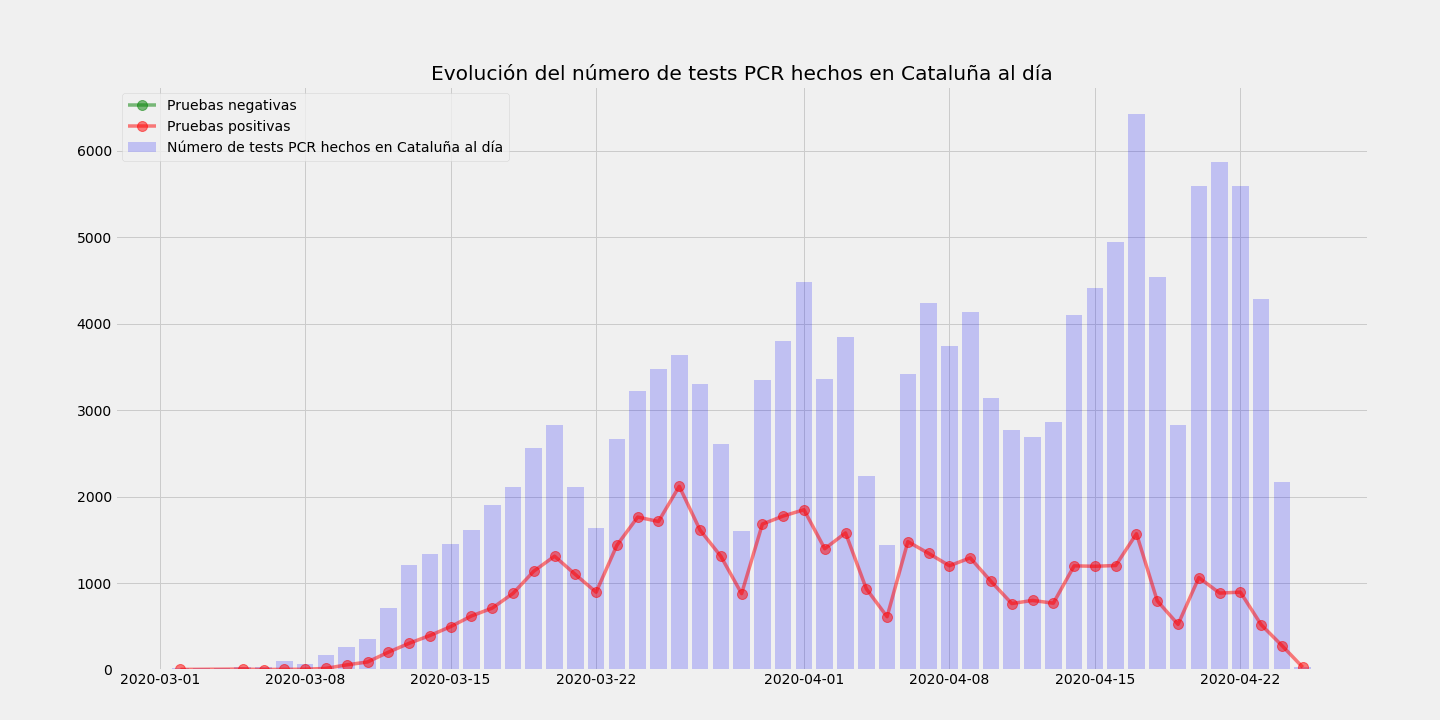
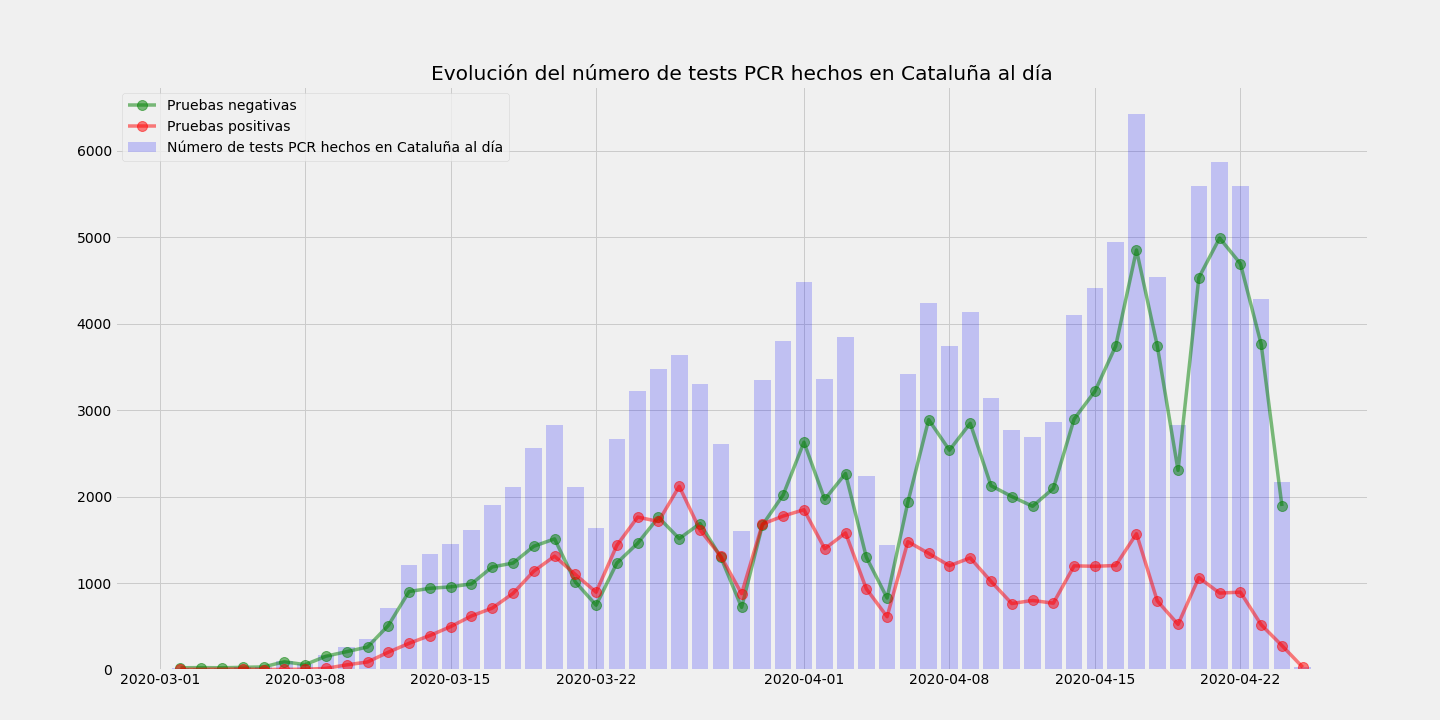
Actualizacion datos cat

diff --git a/README.md b/README.md
@@ -72,9 +72,9 @@ Cataluña he hecho publico el número de tests PCR realizados y los que han sido
 
 | Dato| Número|
 |------------ | -------------|
-|Número total de tests | 83447 |
-|Positivos | 33446 |
-|Negativos | 50001 |
+|Número total de tests | 141364 |
+|Positivos | 47725 |
+|Negativos | 93639 |
 
 ![Evolución del número de tests PCR hechos en Cataluña al día: totales, positivos y negativos](/resources/imagenes/tests.png)
 
